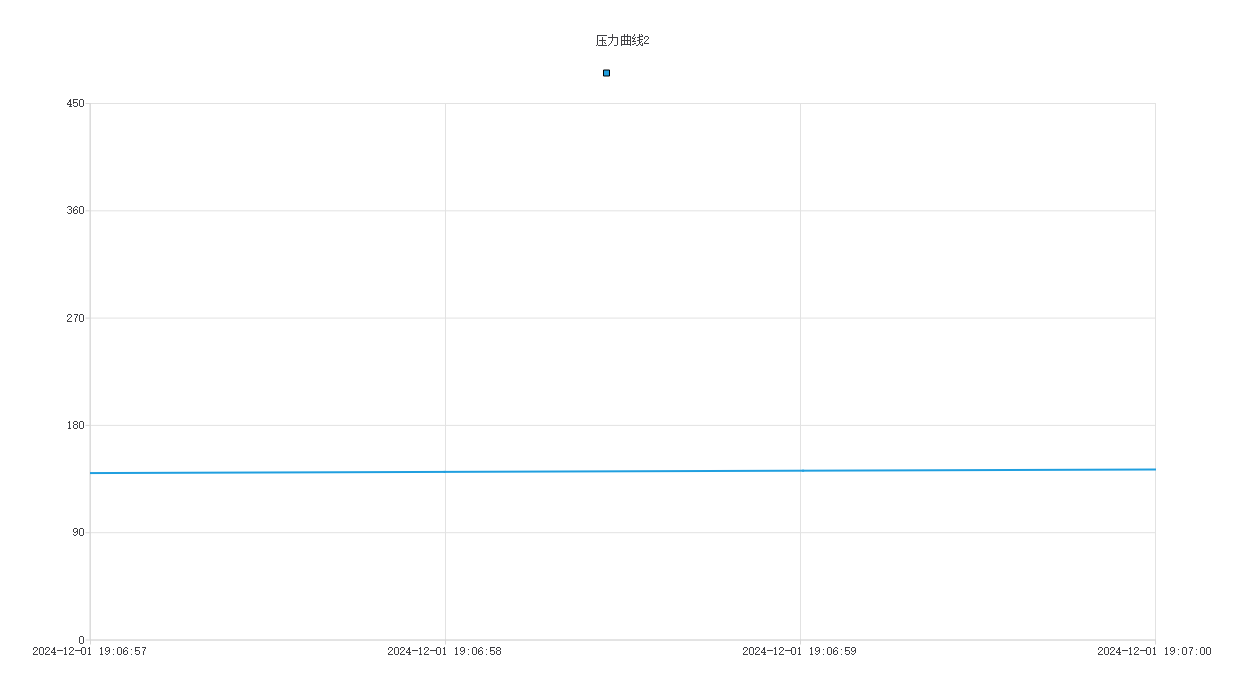
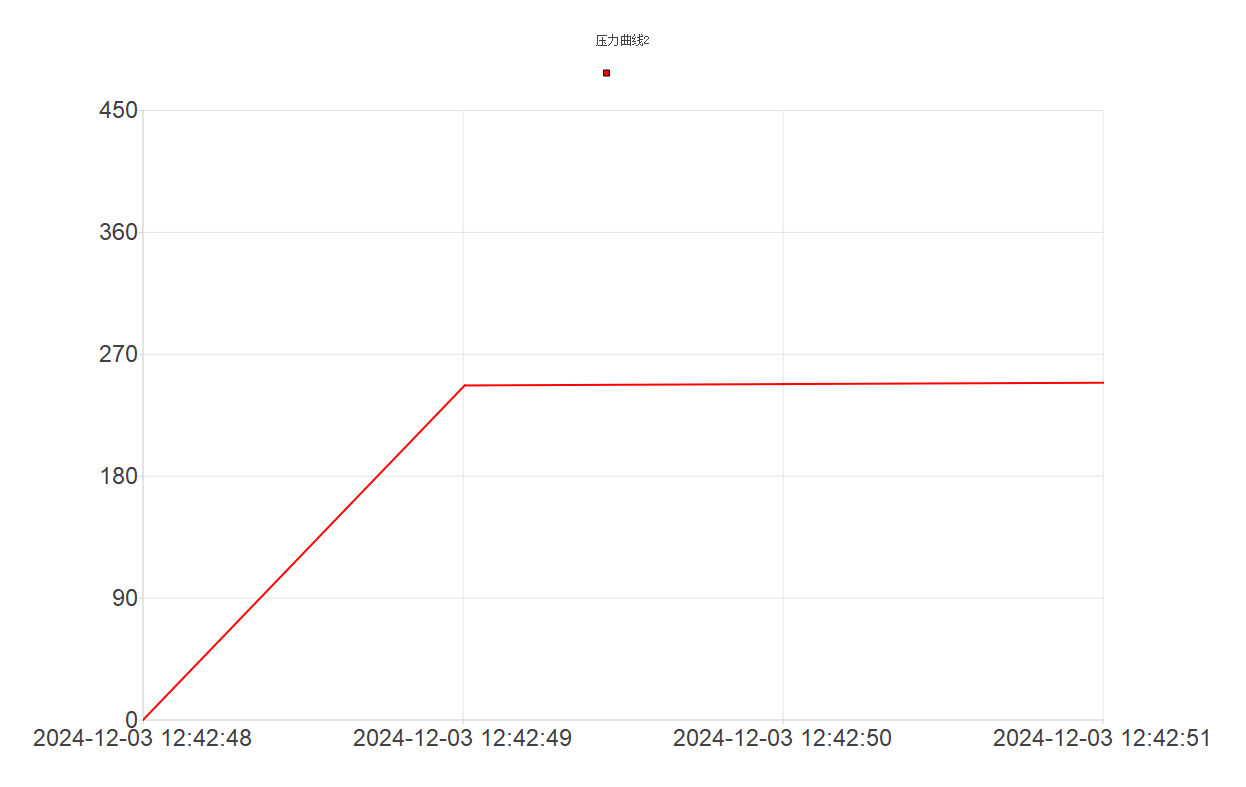
主记录转pdf预览set界面中loginset子界面修改功能

diff --git a/hstorylist.cpp b/hstorylist.cpp
@@ -234,11 +234,11 @@ HstoryList::~HstoryList()
 void HstoryList::loadTable(QTableWidget *tableWidget){
 #if 1
     tableWidget->setColumnCount(12);
+
     QStringList heardList;
     heardList<<"悬挂件名称"<<"压装日期"<<"操作者"<<"检查者"<<"节点序列号1"<<"压装力值1"<<"压装结果1"<<"压装力标准1"
             <<"节点序列号2"<<"压装力值2"<<"压装结果2"<<"压装力标准2";
     tableWidget->setHorizontalHeaderLabels(heardList);
-
 
     qDebug() << "history界面" << endl;
     // 将数据库存入的数据 便利到tableWidget中
@@ -272,7 +272,6 @@ void HstoryList::loadTable(QTableWidget *tableWidget){
     tableWidget->setFocusPolicy(Qt::NoFocus);
 
     tableWidget->setEditTriggers(QAbstractItemView::NoEditTriggers);//只读 不允许编辑 (整表)
-//    ui->tableWidget->item(r,w)->setFlags(Qt::NoItemFlags);         //设置不可编辑 (单元格)
 //    ui->tableWidget->item(r,w)->setFlags(Qt::ItemIsEditable | Qt::ItemIsEnabled);  //可编辑 (单元格)
 
     // 设置选中行的行为
@@ -280,21 +279,14 @@ void HstoryList::loadTable(QTableWidget *tableWidget){
     // 还可以设置选择模式为单选
     tableWidget->setSelectionMode(QAbstractItemView::SingleSelection);
 
-    // 获取水平头视图
+    // 假设 headerView 是 QHeaderView 对象的指针，通常与 QTableWidget 或 QTreeView 绑定
     QHeaderView *headerView = tableWidget->horizontalHeader();
 
-    // 设置第二列的宽度为固定值
-//    headerView->setSectionResizeMode(1, QHeaderView::Fixed);
-//    headerView->resizeSection(1, 130);
-//    // 设置第三列的大小为200像素
-//    headerView->setSectionResizeMode(2, QHeaderView::Fixed); // 设置列的大小模式为固定
-//    headerView->resizeSection(2, 180); // 设置第三列的具体宽度
-
+    // 设置第一列的大小为 100 像素
+//    headerView->resizeSection(0, 300);
+//    headerView->setSectionResizeMode(0, QHeaderView::Fixed); // 固定大小模式
     headerView->setMinimumHeight(48); //设置头的高度
-
     tableWidget->verticalHeader()->setVisible(false);//第一列序号不显示
-//    tableWidget->verticalHeader()->setDefaultSectionSize(48); // 设置默认行高
-//    tableWidget->setShowGrid(false);//设置item无边框
     #endif
 }
 
@@ -715,6 +707,9 @@ void HstoryList::onOption2() {
             ui->tableWidget2->setItem(i, j - 1, new QTableWidgetItem(row[j].toString()));
         }
     }
+    // 时间查询时将容器存入主容器中因为打印pdf处调用的是主容器
+    mainJiLuList.clear();
+    mainJiLuList.append(dateFind);
 
 //    // 1.6 末尾行添加统计行，显示数量
 //    ui->tableWidget2->setRowCount(rowCount + 1);  // 增加一行用于显示统计信息
@@ -754,6 +749,7 @@ void HstoryList::onOption2() {
     // 打印主记录列表(Y)
     void HstoryList::printOnOption1() {
         qDebug("打印触发1");
+         HstoryList::exportPdf(); // 主记录存成pdf
     }
     //打印曲线数据列表(Z)
     void HstoryList::printonOption2() {
@@ -907,12 +903,86 @@ void HstoryList::onOption2() {
         return true;
     }
 
-    /**
-     * @brief 曲线记录表
-     * @param db 数据库对象
-     * @param dbName 数据库文件名（如 "D1.db"）
-     * @param tableName 表名
-     * @return true 查询存入容器成功
-     * @return false 查询存入容器失败
-     */
 
+
+    /**
+     * @brief 判导出主记录表
+     */
+    void HstoryList::exportPdf()
+    {
+        // 设置默认保存路径
+        QString defaultPath = QCoreApplication::applicationDirPath() + "/mainJiLu.pdf";  // 默认保存路径为应用程序目录下
+
+        // 如果文件没有后缀，则添加 .pdf 后缀
+        if (QFileInfo(defaultPath).suffix().isEmpty()) {
+            defaultPath.append(".pdf");
+            qDebug() << defaultPath << endl;
+        }
+
+        // 创建 QPdfWriter 对象并设置 PDF 输出路径
+        QPdfWriter pdfWriter(defaultPath);
+        pdfWriter.setPageSize(QPagedPaintDevice::A4);
+        pdfWriter.setResolution(QPrinter::ScreenResolution);
+
+        // 创建 QTextDocument 来保存 HTML 内容
+        QTextDocument textDocument;
+
+        // 清空 HTML 内容，准备添加新内容
+        QString m_html;
+        m_html.append("<html><head><style>"
+                      "th, td { border: 6px solid black; padding: 8px; text-align: center; }"
+                      "</style></head><body>");
+
+        // 标题
+        m_html.append("<h2 style='text-align: center;'>主记录列表</h2><br/>");
+        // 添加表格内容
+        m_html.append("<h3 style='text-align: left;'>统计时间:    "
+                      + ui->startDateEdit->text() + " => "
+                      + ui->endDateEdit->text() + " 23:59:59</h3>");
+        m_html.append("<table border='0.5' cellspacing='0' cellpadding='3' width='100%'>");
+        // 添加第一行的表头
+        m_html.append("<tr>"
+                      "<th>悬挂名称</th>"
+                      "<th>压装日期</th>"
+                      "<th>操作者</th>"
+                      "<th>检查者</th>"
+                      "<th>节点序列号1</th>"
+                      "<th>压装值力1</th>"
+                      "<th>压装结果1</th>"
+                      "<th>压装力标准1</th>"
+                      "<th>节点序列号2</th>"
+                      "<th>压装值力2</th>"
+                      "<th>压装结果2</th>"
+                      "<th>压装力标准2</th>"
+                      "</tr>");
+
+        // 逐行添加记录到表格
+        for (const auto& recordList : mainJiLuList) {
+            m_html.append("<tr>");
+
+            // 跳过第一个元素
+            for (int i = 1; i < recordList.size(); ++i) {
+                m_html.append("<td>" + recordList[i].toString() + "</td>");
+            }
+
+            m_html.append("</tr>");
+        }
+        // 在最后添加“数据条数”行
+        m_html.append("<tr><td colspan='11' style='text-align: right;'><strong>数据条数: " + QString::number(mainJiLuList.size()) + "</strong></td></tr>");
+        qDebug() << "mainJiLuList size: " << mainJiLuList.size();
+
+        // 结束表格
+        m_html.append("</table><br />");
+
+        // 结束 HTML
+        m_html.append("</body></html>");
+
+        // 将 HTML 内容设置到 QTextDocument
+        textDocument.setHtml(m_html);
+
+        // 使用 QPdfWriter 打印 PDF
+        textDocument.print(&pdfWriter);
+
+        // 关闭文件并开始新的一页
+        pdfWriter.newPage();  // 如果需要新页面，使用 newPage
+    }

diff --git a/mainwindow.cpp b/mainwindow.cpp
@@ -278,6 +278,7 @@ connect(startReBtn1, &QPushButton::clicked, this, [=]() {
             yaZhuangSaultLine1->setText("");
             // 处理容器中的值插入到数据库中和主记录表关联
             chart1Container.clear();
+            series1->setColor(Qt::red);
 
 });
 #endif
@@ -340,6 +341,7 @@ connect(startReBtn2, &QPushButton::clicked,this,[=]{
             yaZhuang2->setText("");
             yaZhuangSaultLine2->setText("");
             chart2Container.clear();
+            series2->setColor(Qt::red);
 });
 #endif
 
@@ -508,6 +510,16 @@ void MainWindow::initializeControls()
      dataMaintenanceButton = new QPushButton("数据维护", this);
      exitButton = new QPushButton("退出", this);
      zhanKaiLine = new QLineEdit("0", this);  // 展开值
+     zhanKaiLine->setStyleSheet("QLineEdit {"
+                                 "font-size: 30pt; "  // 设置字体大小
+                                 "font-family: Arial; "  // 设置字体类型
+                                 "text-align: center; "  // 设置文本居中
+                                 "border: 2px solid black; "  // 设置边框
+                                 "background-color: lightgray; "  // 设置背景颜色
+                                 "}");
+     zhanKaiLine->setAlignment(Qt::AlignCenter);
+     zhanKaiLine->setFixedWidth(200);
+
      zhanKaiBtn = new QPushButton("展开", this);  // 展开按钮
      qieHuan = new QLabel("主设备:0\n副设备:0\nF5切换:主设备\n数据来源:仪表",this);
 

diff --git a/chartdel.cpp b/chartdel.cpp
@@ -33,6 +33,8 @@ QChartView* MainWindow::createChartView(const QString &title, QDateTimeAxis *axi
     // 创建并返回QChartView
     QChartView *chartView = new QChartView(chart);
     chartView->setRenderHint(QPainter::Antialiasing);  // 启用抗锯齿
+    axisX->setLabelsFont(QFont("Arial", 10));  // 设置X轴的字体为Arial，大小为10
+    axisY->setLabelsFont(QFont("Arial", 12));  // 设置X轴的字体为Arial，大小为10
 
     startDataInsertion(axisX, series, chart, chartView);  // 传入chartView，确保更新
     return chartView;
@@ -88,7 +90,8 @@ QChartView* MainWindow::createChartView2(const QString &title, QDateTimeAxis *ax
     // 创建并返回QChartView
     QChartView *chartView = new QChartView(chart);
     chartView->setRenderHint(QPainter::Antialiasing);  // 启用抗锯齿
-
+    axisX->setLabelsFont(QFont("Arial", 12));  // 设置X轴的字体为Arial，大小为10
+    axisY->setLabelsFont(QFont("Arial", 12));  // 设置X轴的字体为Arial，大小为10
     startDataInsertion2(axisX, series, chart, chartView);  // 传入chartView，确保更新
     return chartView;
 }

diff --git a/modbusconn.cpp b/modbusconn.cpp
@@ -15,7 +15,7 @@ void MainWindow::startRefun1() {
     // 如果 Modbus 未处于连接状态，尝试连接
     if (modbusDevice->state() != QModbusDevice::ConnectedState) {
         modbusDevice->setConnectionParameter(QModbusDevice::NetworkPortParameter, 502);
-        modbusDevice->setConnectionParameter(QModbusDevice::NetworkAddressParameter, "192.168.0.170");
+        modbusDevice->setConnectionParameter(QModbusDevice::NetworkAddressParameter, "192.168.1.9");
         modbusDevice->setTimeout(2000);  // 设置超时时间
         modbusDevice->setNumberOfRetries(2);  // 设置重试次数
 

diff --git a/hstorylist.h b/hstorylist.h
@@ -14,6 +14,9 @@
 #include <QGraphicsScene>
 #include <QPainter>
 #include "poppler-qt5.h"
+#include<QPdfWriter>
+#include <QTextDocument>
+#include <QFile>
 
 #define HSTORYLIST_H
 
@@ -63,6 +66,7 @@ private slots:
           void printOnOption1();
           void printonOption2() ;
           void loadTable2(QTableWidget *tableWidget);
+          void exportPdf();
 public:
           QList<QList<QVariant>> dataList2; // 存储悬挂名称和标准数据库中的值
           QList<QList<QVariant>> dataList4; // 存储曲线记录
